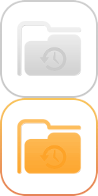
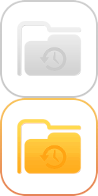
апгрейд картинки бекапа правка цвета при ошибке

Changed region(s): [[0.1837, 0.6122, 0.8265, 0.7041]]

diff --git a/web/main-color.css b/web/main-color.css
@@ -55,7 +55,7 @@ body {
 	color: red;
 }
 .badentry {
-	background-color: pink;
+	background-color: pink !important;
 }
 .atable th{
 	border:1px solid #ccc;
